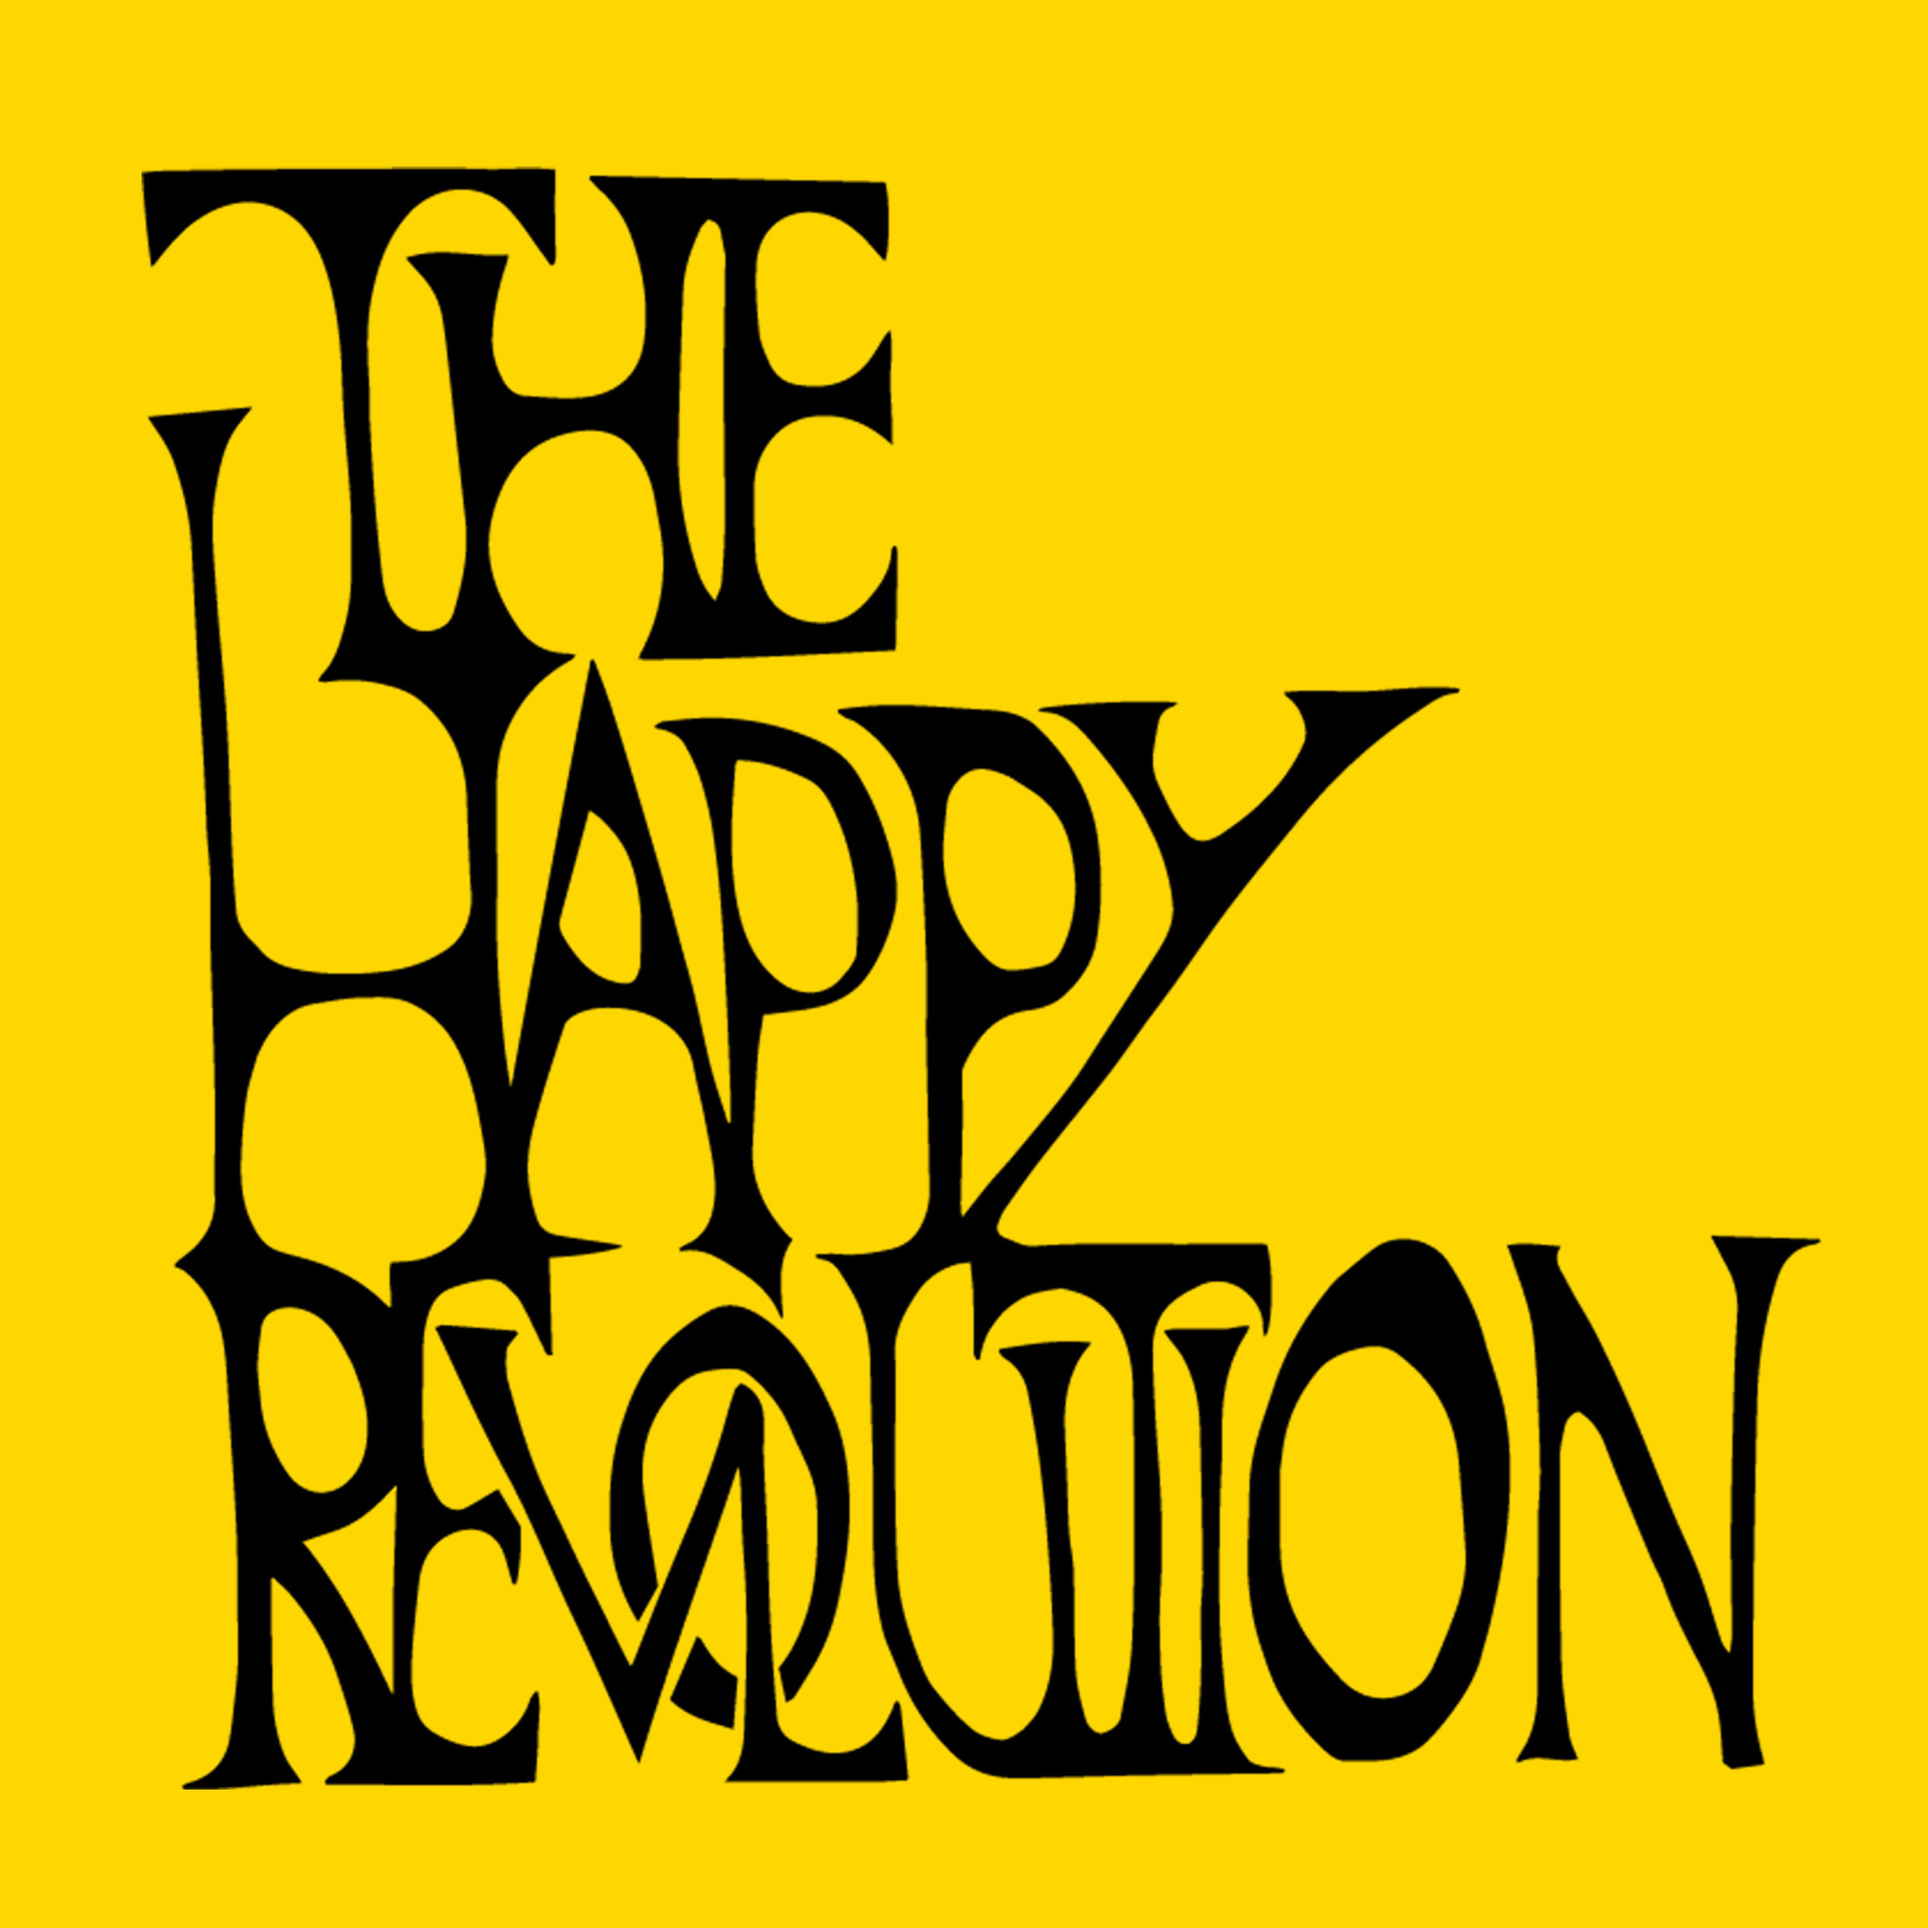
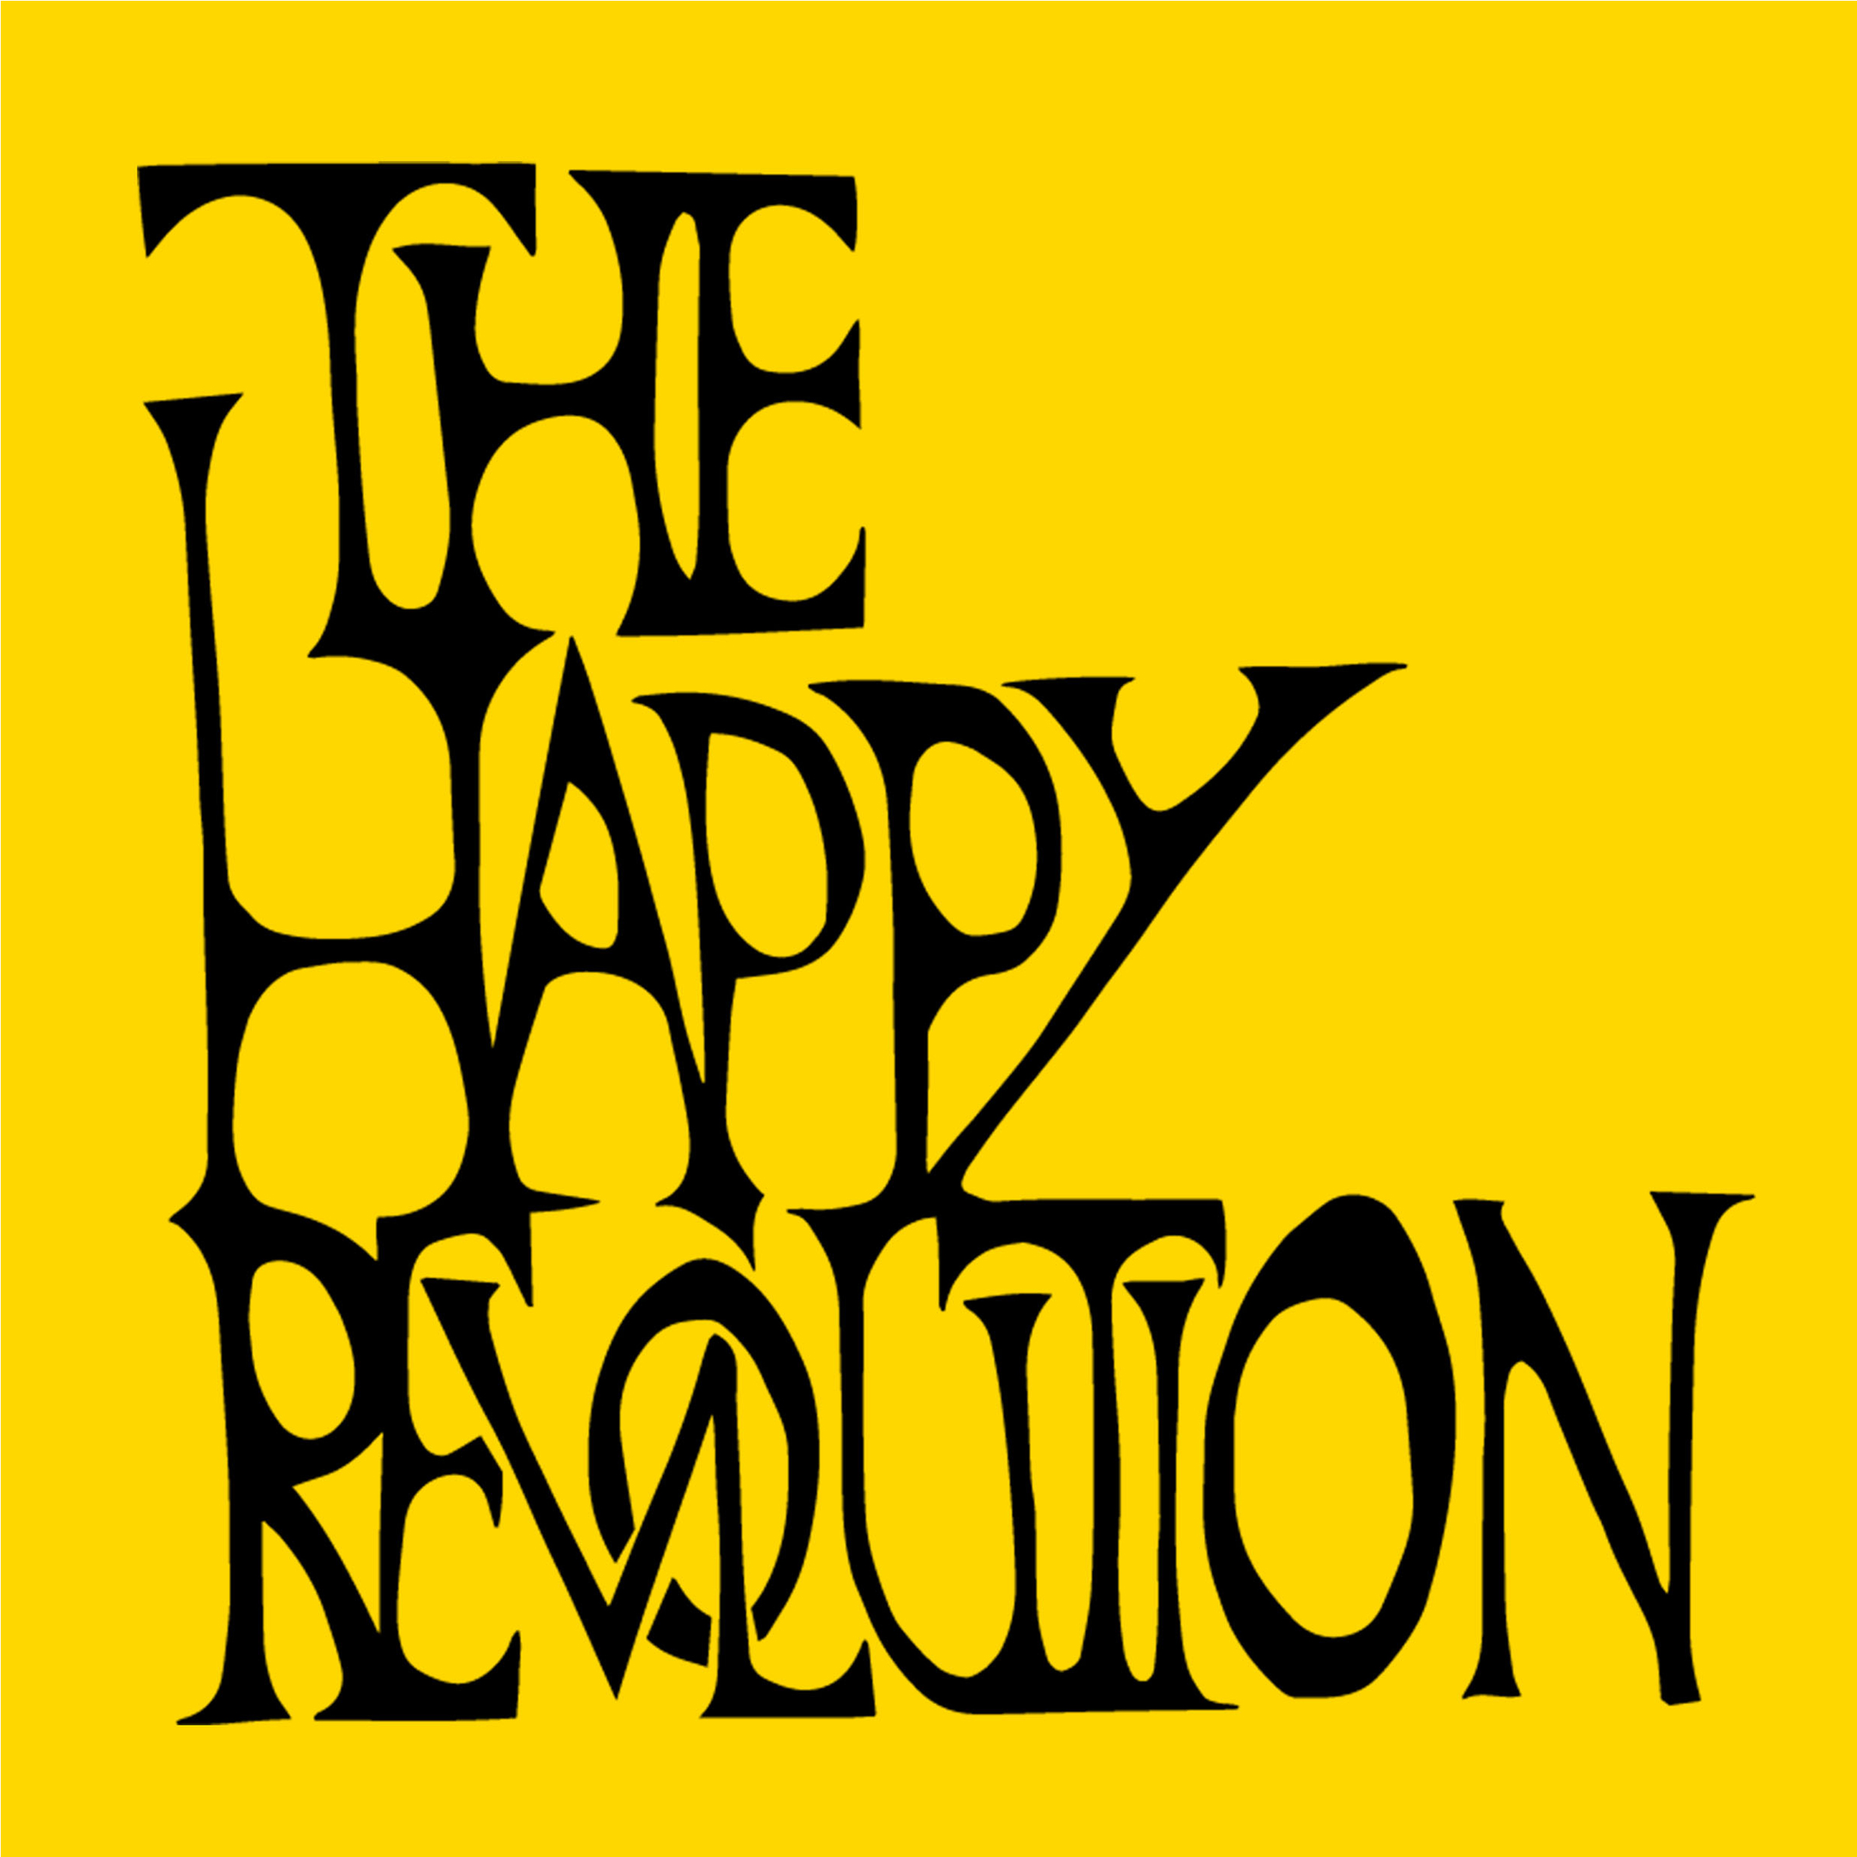
v1.03
Removed unnessesary code and images
fixed podcast logo

diff --git a/index.html b/index.html
@@ -59,7 +59,7 @@
 											<a href="#" class="image fit"><img src="images/pic02.jpg" alt=""></a>
 										</div>
 										<div class="col-4 col-6-medium col-12-small">
-											<a href="https://open.spotify.com/show/54qS4VR14dJizxjvqaedkZ" class="image fit"><img src="images/pic03.jpg" alt=""></a>
+											<a href="https://open.spotify.com/show/54qS4VR14dJizxjvqaedkZ" target="_blank" class="image fit"><img src="images/pic03.jpg" alt=""></a>
 											<p> Podcast Logotype</p>
 										</div>
 										<div class="col-4 col-6-medium col-12-small">
@@ -69,27 +69,6 @@
 										<div class="col-4 col-6-medium col-12-small">
 											<a href="#" class="image fit"><img src="images/pic05.jpg" alt=""></a>
 										</div>
-										<!--
-										<div class="col-4 col-6-medium col-12-small">
-											<a href="#" class="image fit"><img src="images/pic06.jpg" alt=""></a>
-										</div>
-										
-										<div class="col-4 col-6-medium col-12-small">
-											<a href="#" class="image fit"><img src="images/pic07.jpg" alt=""></a>
-										</div>
-										<div class="col-4 col-6-medium col-12-small">
-											<a href="#" class="image fit"><img src="images/pic08.jpg" alt=""></a>
-										</div>
-										<div class="col-4 col-6-medium col-12-small">
-											<a href="#" class="image fit"><img src="images/pic09.jpg" alt=""></a>
-										</div>
-										<div class="col-4 col-6-medium col-12-small">
-											<a href="#" class="image fit"><img src="images/pic10.jpg" alt=""></a>
-										</div>
-										<div class="col-4 col-6-medium col-12-small">
-											<a href="#" class="image fit"><img src="images/pic11.jpg" alt=""></a>
-										</div>
-										-->
 										<div class="col-4 col-6-medium col-12-small">
 											<a href="#" class="image fit"><img src="images/pic04.jpg" alt=""></a>
 										</div>
@@ -97,49 +76,11 @@
 								</section>
 							</article>
 
-						<!-- Contact, I turned it off becasue I cant figure it out and they can contact me by reaching me on my platforms -->
-
+						
 							<article id="contact" class="panel">
-								<header>
-									<h2>Contact me</h2>
-								</header>
-								<div>
-								</div>
-									<form action=”mailto:dejonadam@myvuw.ac.nz” method=”POST” enctype=”text/plain” name=”EmailForm”>
-										<label for="name">Name:</label>
-										<input type="text" id="name" name="name"><br>
-										<label for="ContactCommentt">Message:</label>
-										<textarea id=”ContactCommentt” rows=”6″ cols=”20″></textarea>
-										<input type="submit" value="Send"></form>
-									</form>
-								
-								<div class="col-4 col-6-medium col-12-small">
-									<a href="#" class="image fit"><img src="images/picreachout.jpg" alt=""></a>
-								</div>
-								<!--
-								<form action="#" method="post">
-									<div>
-										<div class="row">
-											<div class="col-6 col-12-medium">
-												<input type="text" name="name" placeholder="Name" />
-											</div>
-											<div class="col-6 col-12-medium">
-												<input type="text" name="email" placeholder="Email" />
-											</div>
-											<div class="col-12">
-												<input type="text" name="subject" placeholder="Subject" />
-											</div>
-											<div class="col-12">
-												<textarea name="message" placeholder="Message" rows="6"></textarea>
-											</div>
-											<div class="col-12">
-												<input type="submit" value="Send Message" />
-												
-											</div>
-										</div>
-									</div>
-								</form>
-								-->
+								<h1>Contact</h1>
+								<br
+								You can reach me on my social medias or reach me on my <a href="mailto:dejonadam@myvuw.ac.nz" target="_blank">email</a>
 							</article>
 
 					</div>
